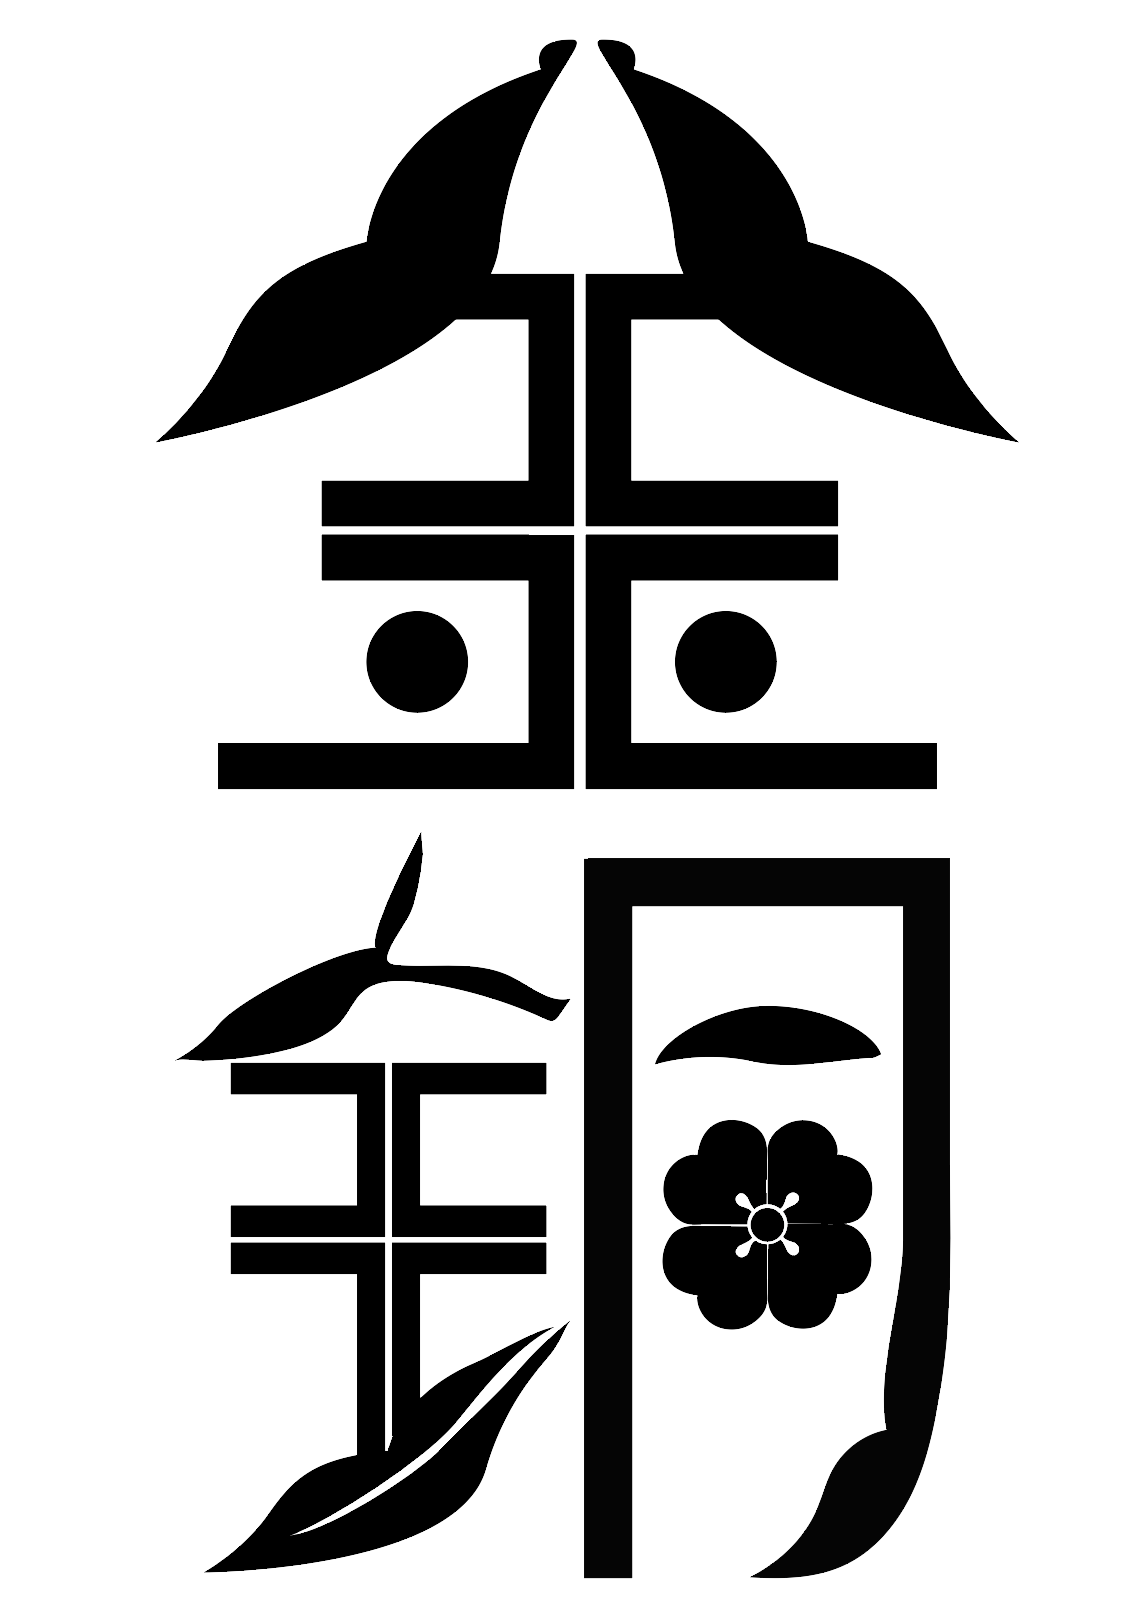
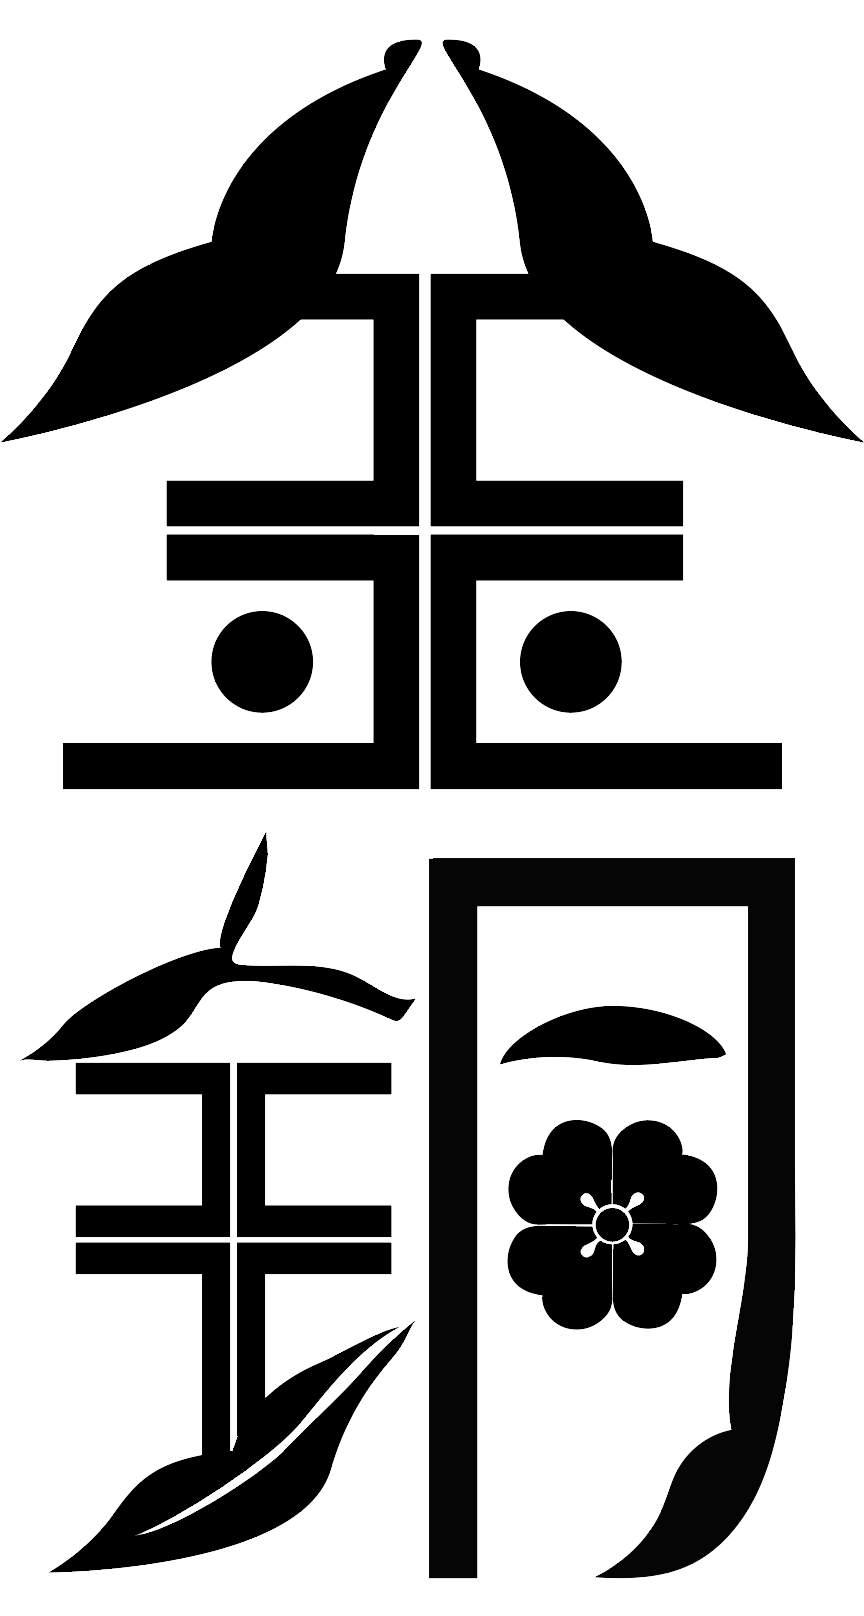
update

diff --git a/Porcelain/products/porcelain-1.html b/Porcelain/products/porcelain-1.html
@@ -54,40 +54,36 @@
       <a class="next" onclick="plusSlides(1)">&#10095;</a>
 
       <div class="dots" style="text-align:center">
-      <span class="dot" onclick="currentSlide(1)"></span> 
-      <span class="dot" onclick="currentSlide(2)"></span> 
+        <span class="dot" onclick="currentSlide(1)"></span> 
+        <span class="dot" onclick="currentSlide(2)"></span> 
+      </div>
     </div>
-
-
-    </div>
-
-
-    <!-- The dots/circles -->
     
 
 
 
   <!------------------ TEXT!!!!!!!! -->
   <div class="copy">
-    <h1> PORCELAIN 01</h1>
-
+    <h1>PORCELAIN 01</h1>
     <h2>CHILD</h2>
-
-    <br><br>
-    <p> This book alters the foundational terms of racialized femininity by allowing us to conceptualize race and gender without being solely beholden to flesh or skin. Tracing a direct link between the making of Asiatic femininity and a technological history of synthetic personhood in the West from the nineteenth to the twenty-first century, Ornamentalism demonstrates how the construction of modern personhood in the multiple realms of law, culture, and art has been surprisingly indebted to this very marginal figure and places Asian femininity at the center of an entire epistemology of race. </p>
-    <br><br><br><br><br>
-
-
-
   </div>
 
+  <div class="info">
+    <p> This book alters the foundational terms of racialized femininity by allowing us to conceptualize race and gender without being solely beholden to flesh or skin. Tracing a direct link between the making of Asiatic femininity and a technological history of synthetic personhood in the West from the nineteenth to the twenty-first century, Ornamentalism demonstrates how the construction of modern personhood in the multiple realms of law, culture, and art has been surprisingly indebted to this very marginal figure and places Asian femininity at the center of an entire epistemology of race. 
+    </p>
+    <br><br><br><br><br>
 
-
+    <button class="shopbutton" onclick="alert('Watch what you consume')">BUY NOW</button> 
 </div>
-</div>
-</div>
+
+      <div class="footer"></div>
+    </div>
 
 
+    
+    </div>
+  </div>
+</div>
 
 <!------- RIGHT ( CATALOG ) -------->
 <div class="productR right">

diff --git a/assets/product-style.css b/assets/product-style.css
@@ -457,6 +457,11 @@ p {
 color: black; 
 }
 
+.copy {
+  height: 50px;
+  position: relative;
+  margin: 0 0 20px 0;
+}
 
 .copy h1 {
       font-family: arial;
@@ -470,9 +475,8 @@ color: black;
     }
 
 
-
 .copy h2 {
-  font-family: arialnarrow;
+      font-family: arialnarrow;
       font-size: 1.8vw;
       line-height: 2.2vw;
       z-index: 30;
@@ -480,27 +484,70 @@ color: black;
       margin: 20px 2vw 20px 20px;
       text-align: left;
       color: black;
-  right: 0;
-  z-index: 92499;
+      right: 0;
+      z-index: 92499;
 }
 
 
-.copy p {
+.info {
+  position: relative;
+  display: block;
+  width: 100%;
+  z-index: 99999;
+  height: 10vw;
+  margin: 0 0 40px 0;
+}
+
+.info p {
       font-family: freight-text-pro, serif;
       font-size: 1vw;
       line-height: 1.2vw;
       position: absolute;
-      margin: 50px 3vw 8vh 20px;
       text-align: left;
       width: 50%;
+      display: block;
+      bottom: 0;
+      margin: 0 0 0 20px;
     }
 
 
 
+.info .shopbutton {
+  position: absolute;
+  bottom: 0;
+  right: 0;
+}
+
+.shopbutton {
+  background-color: transparent; 
+  color: black; 
+  border: 1px solid black;
+  padding: 10px 40px;
+  text-align: center;
+  text-decoration: none;
+/*  display: inline-block;*/
+  font-size: 16px;
+  margin: 0 2vw 0 0;
+  -webkit-transition-duration: 0.2s; /* Safari */
+  transition-duration: 0.2s;
+  cursor: pointer;
+}
+
+.shopbutton:hover {
+  background-color: black;
+  color: white;
+}
 
 
-
-
+.footer {
+  overflow: hidden;
+  background-color: black;
+  position: relative;
+  bottom: 0;
+  width: 100%;
+  margin-top: 20px;
+  height: 40px;
+}
 
 
 /*  ----------- SLIDESHOW ----------- */
@@ -645,11 +692,11 @@ color: black;
   line-height: 1em;
 }
 
-
  .home-img {
       margin-top: 30px;
     }
 }
+
 
 
 @media screen and (max-width: 1100px) {

diff --git a/Metals/index.html b/Metals/index.html
@@ -29,7 +29,7 @@
     
     <!----------! MARK !------------>
     <div class="centered">
-      <div class="mark-images"><img src="../images/porcelain-mark.png"></div>
+      <div class="mark-images"><img src="images/metals-mark.png"></div>
     </div>
 
 </div>
@@ -85,22 +85,22 @@
       <div class="product_wrap">
         <a href="products/metal-4.html">
         <img src="images/metal-4.png" alt="metal-4">
-        <p class="productnumber">02</p><p class="productname">RED COMMAND</p>
+        <p class="productnumber">02</p><p class="productname">RED<br>COMMAND</p>
         </a>
       </div>
 
      <!---! PRODUCT 05 !---->
       <div class="product_wrap">
-        <a href="products/metal-2.html">
-        <img src="images/metal-2.png" alt="metal-2">
-        <p class="productnumber">02</p><p class="productname">GANG</p>
+        <a href="products/metal-5.html">
+        <img src="images/metal-5.png" alt="metal-5">
+        <p class="productnumber">02</p><p class="productname">LOTUS<br>VICE</p>
         </a>
       </div>
 
      <!---! PRODUCT 06 !---->
       <div class="product_wrap">
-        <a href="products/metal-2.html">
-        <img src="images/metal-2.png" alt="metal-2">
+        <a href="products/metal-6.html">
+        <img src="images/metal-6.png" alt="metal-6">
         <p class="productnumber">02</p><p class="productname">GANG</p>
         </a>
       </div>

diff --git a/Porcelain/index.html b/Porcelain/index.html
@@ -30,7 +30,7 @@
     
     <!----------! MARK !------------>
     <div class="centered">
-      <div class="mark-images"><img src="images/porcelain-mark.png"></div>
+      <div class="mark-images"><img src="images/porcelain-mark.png" style="position: relative; display:block; margin:auto; height: auto; width: auto; max-height: 92vh; max-width: 100%;"></div>
     </div>
 
 </div>

diff --git a/assets/style.css b/assets/style.css
@@ -200,7 +200,7 @@ li a {
       background-color:black;
       height: 1px;
     }
-    
+
 
 .hover a {
   position: relative;
@@ -361,15 +361,8 @@ body {
 }
 
 .mark-images {
-  margin: 60px 0 0 0;
+  margin: 50px 0 0 0;
 }
-
-/*.centered img {
-  width: 150px;
-  border-radius: 50%;
-}*/
-
-
 
 
 .hover a {

diff --git a/Textiles/index.html b/Textiles/index.html
@@ -29,7 +29,7 @@
     
     <!----------! MARK !------------>
     <div class="centered">
-      <div class="mark-images"><img src="images/porcelain-mark.png"></div>
+      <div class="mark-images"><img src="images/textiles-mark.png"></div>
     </div>
 
 </div>
